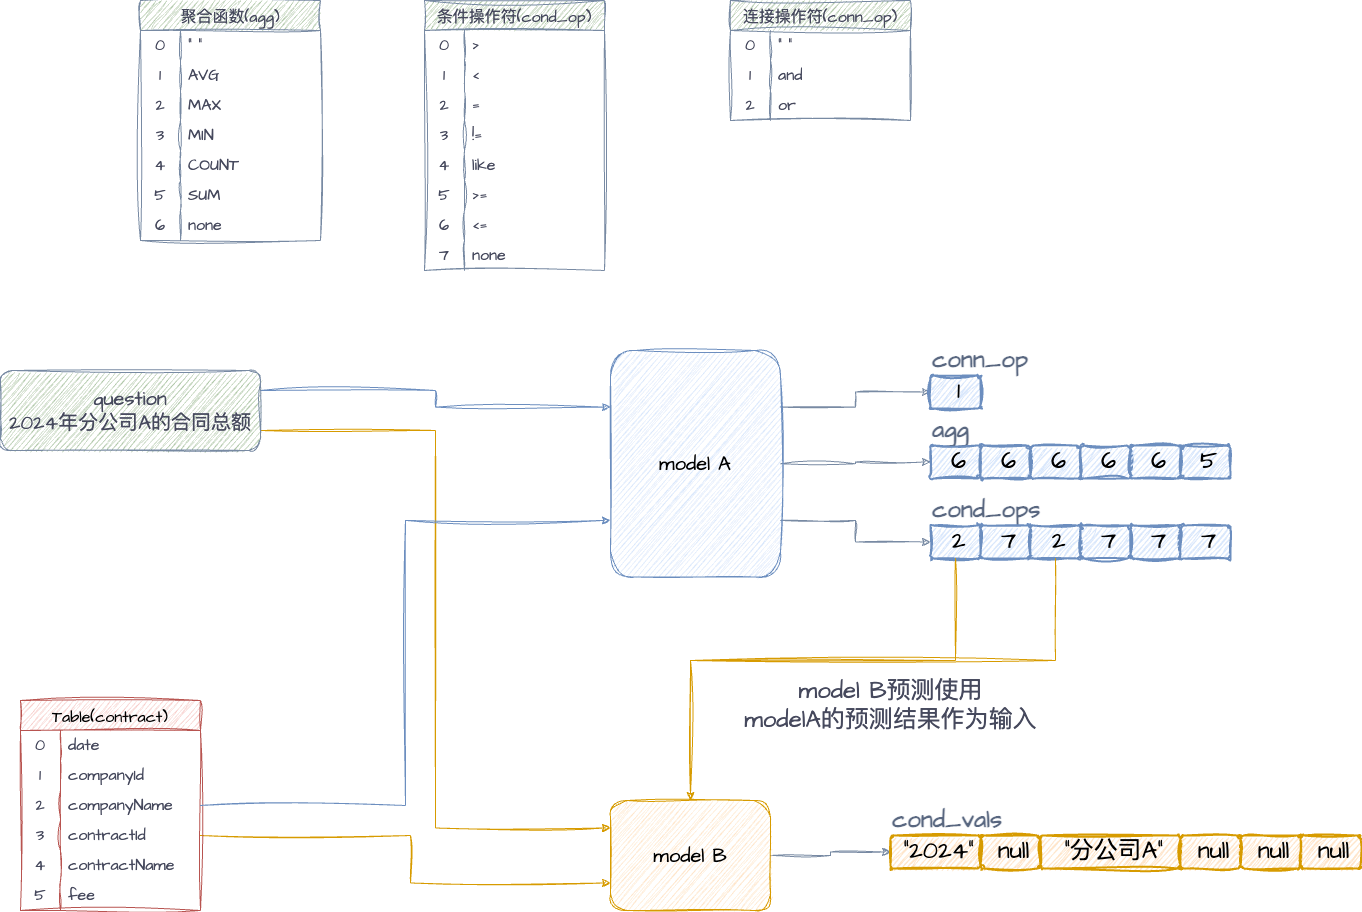
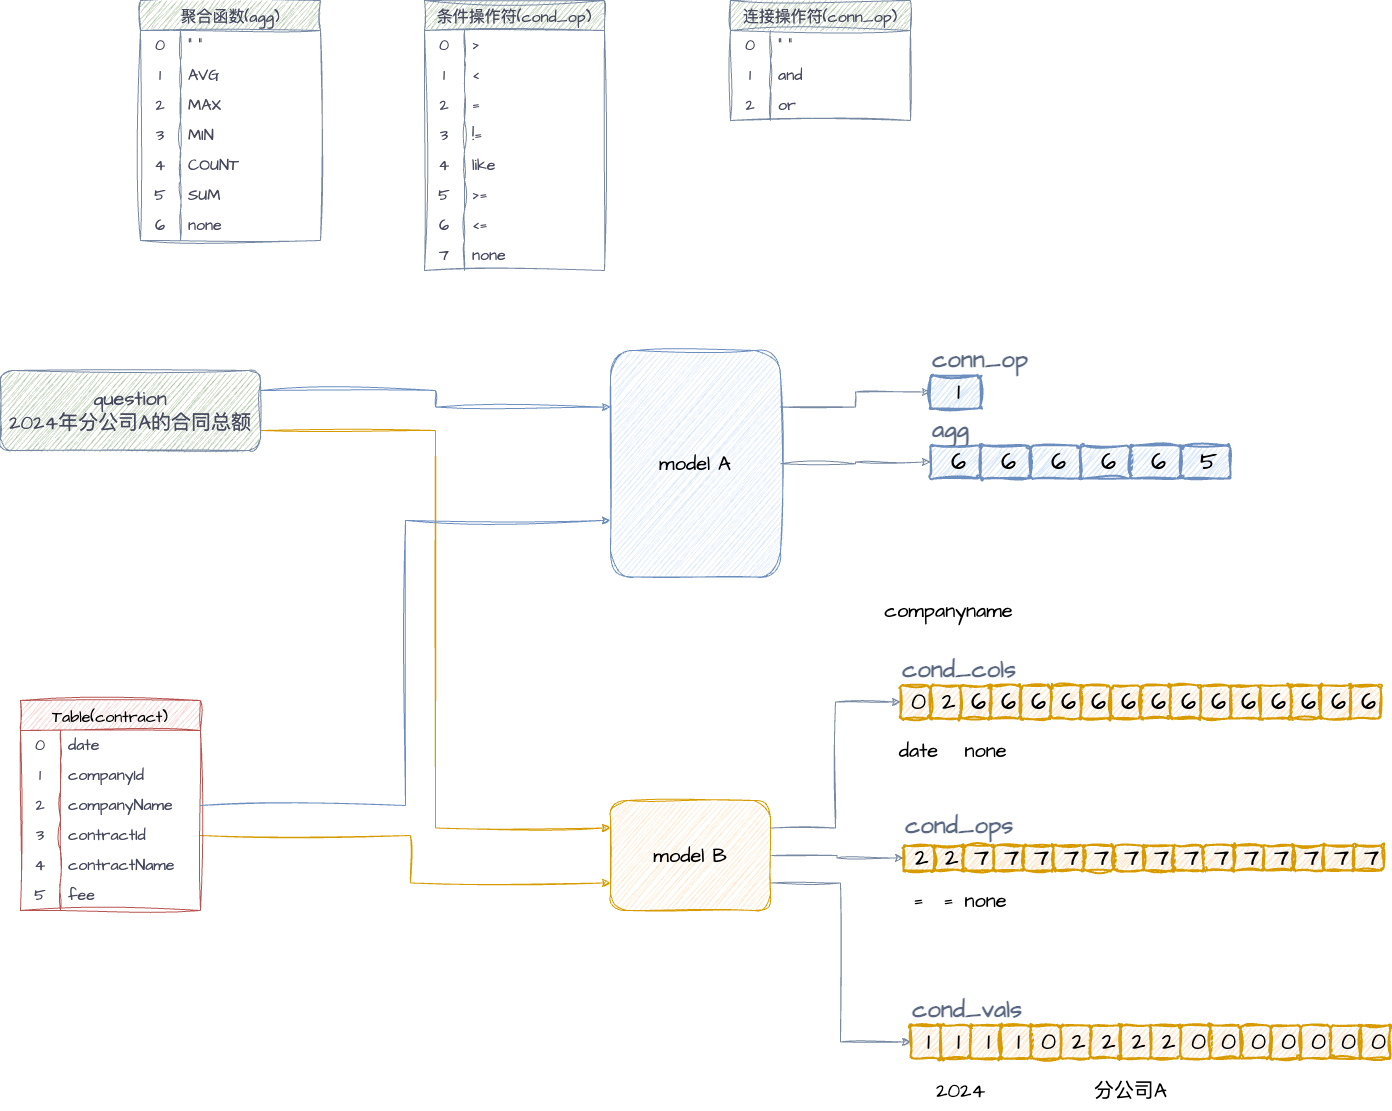
readme(文档) 1、更新readme文档

diff --git a/README.md b/README.md
@@ -10,7 +10,29 @@
 6. 模型训练
 7. 模型预测
 
+## 目录结构
 
+.
+
+├── bert-base-chinese/ # pytorch使用的bert模型（哈工大）
+
+├── train-datas/ # 存放数据文件
+│ ├── train.jsonal # label好的训练数据
+│ └── train_test.jsonal # 测试数据
+
+├── result-model/ # 下游模型训练结果
+
+├── doc/ # 存放文档
+├── src/ # 存放源代码
+│ ├── utils.py # 存放通用工具函数
+│ ├── model.py # 存放模型代码
+
+│ ├── train.py # 模型训练代码
+
+│ └── predict.py # 模型预测代码
+├── gaggle-bert-nl2sql # 在kaggle环境上运行的notebook
+├── requirements.txt # 项目依赖的 Python 包列表
+└── README.md # 项目说明文档
 
 ## 定义结构化`sql`
 
@@ -32,13 +54,15 @@
 
 ![nl2sql](doc/img/column_code.png)
 
-已对表中的所有列进行编码，若要使用其列编号，则`agg`需要**显示所有列的聚合函数**。**条件操作符(cond_op)**和**条件值(cond_value)**
+已对表中的所有列进行编码，若要使用其列编号，则`agg`需要**显示所有列的聚合函数**。解决上述问题后，尚存在一个问题，**即如何对条件列表进行编码**，该问题要关注的重点有两个，（1）**条件的数量如何确定**，（2）**条件列可重复出现**。
 
-亦是如此。按照上述方式，最终输出结果如下所示：
+因为每个`question`解析成对应的`sql`对应的`cond`数量各异，为了方便编码，采用最大值，**默认cond数量最大不超过`question`长度**，由此可进行编码。条件列采用亦是采用最大`question`长度进行编码，因此即使重复出现，编码后亦可体现出来。
+
+**假设`question`最大长度为16**，最终输出结果如下所示：
 
 ![nl2sql](doc/img/nl2sql-structure-column-code.png)
 
-上图可见，**查询列(sel_col)**和**条件列(cond_col)**已去除，因为在`"agg": [6, 6, 6, 6, 6, 5]`中已能表示出需要**查询列**，以及在`"cond_ops": [2, 7, 2, 7, 7, 7],"cond_vals": ["2024", null, "分公司A", null, null, null]`中能表示出**条件列**。
+上图可见，`agg`的长度为6，即`tabel column`的长度，`agg`的值表示要进行的聚合操作，`cond_*`的长度为`question`的最大长度，`cond_cols`的值表示条件列，如0表示`date`这一列，6则表示不存在的列，即这个cond不存在。`cond_ops`和`cond_vals`也是这个编码逻辑。
 
 从最终的输出可以看出，本方法对NL2SQL问题的处理方案采用的是解决**多分类问题**。
 
@@ -93,8 +117,11 @@
   "orderby": [],
   "asc_desc": 0,
   "conn_op": 1,
-  "cond_ops": [2, 7, 2, 7, 7, 7],
-  "cond_vals": ["2024", null, "分公司A", null, null, null]
+  "cond_cols": [0, 2, 6, 6, 6, 6
+  , 6, 6, 6, 6, 6, 6, 6, 6], #6表示不存在的列
+  "cond_ops": [2, 2, 7, 7, 7, 7
+  , 7, 7, 7, 7, 7, 7, 7, 7],
+  "cond_vals": [1,1,1,1,0,2,2,2,0,0,0,0,0,0,0,0]
   },
   "keywords": {
   "sel_cols": ["总额"],
@@ -113,9 +140,9 @@
 
 ## 下游模型构建
 
-由[结构化`SQL`](##定义结构化`sql`)可知，下游模型需要处理的是**多分类问题**，主要需要训练的内容是**`agg`聚合操作、`conn_op`连接符、`cond_op`条件操作符、`cond_vals`条件操作值**。主要存在的问题是**查询列、条件数量是不固定的**，由于已经对列进行的确定的编码，因此**查询列、条件数量的最大值是确定的**。因此**`agg`、`cond_op`、`cond_vals`会对所有列进行分类训练**。
+由[结构化`SQL`](##定义结构化`sql`)可知，下游模型需要处理的是**多分类问题**，主要需要训练的内容是**`agg`聚合操作、`conn_op`连接符、`cond_op`条件操作符、`cond_vals`条件操作值**。主要存在的问题是**查询列、条件数量是不固定的**，由于已经对列进行的确定的编码，因此**查询列、条件数量的最大值是确定的**。因此**`agg`、`conn_op`、`cond_col`、`cond_op`、`cond_vals`会对所有列进行分类训练**。
 
-从上述思路中，还存在可优化的点是**`cond_op`与`cond_vals`之间存在必然的数量关系**。即假设某个`question`训练出来的`cond_op`的数量是2，那么`cond_vals`的数量必然也是2。为了优化该问题，将模型拆分成两部分，第一部分训练&预测`agg`和`cond_op`，第二部分训练&预测`cond_vals`，**预测时接受第一部分模型预测出来的cond_op的数量**。整体结构如下图所示：
+将模型拆分成两部分，第一部分训练&预测`agg`和`conn_op`，第二部分训练&预测`conds`，整体结构如下图所示：
 
 ![nl2sql](doc/img/model-structure.png)
 
@@ -143,8 +170,21 @@
 
 `pytorch`框架已对`bert`模型做了很好的封装。本方案采用`pytorch`进行算法编程。
 
+
+
+## 模型编程
+
+[模型代码]: src/model.py
+
+
+
 ## 模型训练
+
+[模型训练]: src/train.py
 
 
 
 ## 模型预测
+
+[模型预测]: src/predict.py
+
